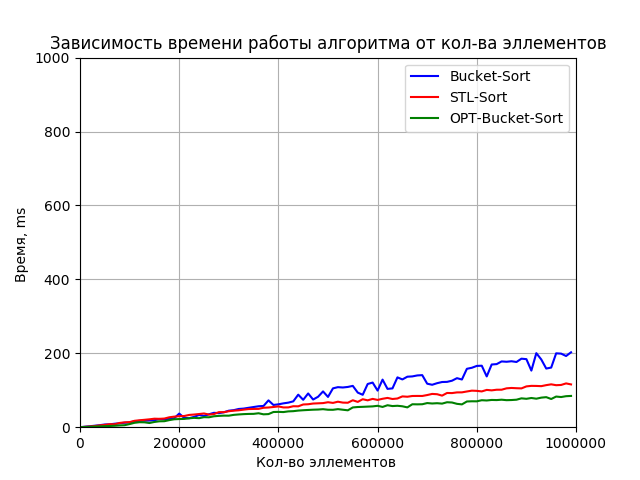
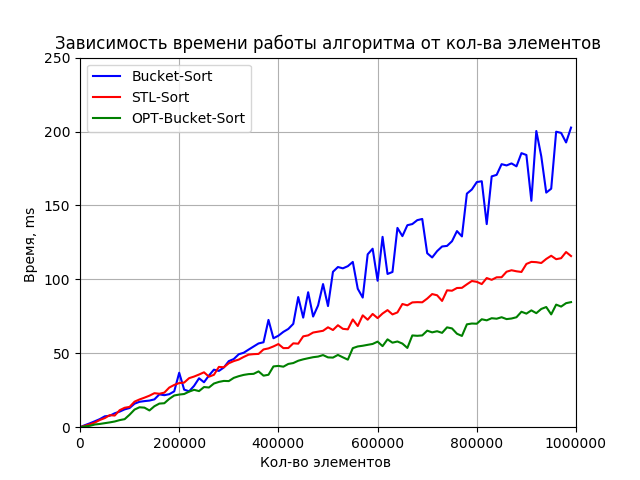
rafactor graphics

diff --git a/scripts/graphics-sript.py b/scripts/graphics-sript.py
@@ -22,6 +22,7 @@ Y_B  = []
 Y_Q  = []
 Y_OB = []
 
+
 f_b = open('log_bucket_sort.txt', 'r')
 for line in f_b:
 	Y_B.append(float(line))
@@ -49,15 +50,15 @@ line_b, line_q, line_ob = plt.plot(X, Y_B, 'b-', X, Y_Q, 'r-', X, Y_OB, 'g-'  )
 
 # Задаем интервалы значений по осям X и Y
 
-plt.axis([0.0, 1000000.0, 0.0, 1000.0])
+plt.axis([0.0, 1000000.0, 0.0, 250.0])
 
 # Задаем заголовок диаграммы
 
-plt.title(u'Зависимость времени работы алгоритма от кол-ва эллементов')
+plt.title(u'Зависимость времени работы алгоритма от кол-ва элементов')
 
 # Задаем подписи к осям X и Y
 
-plt.xlabel(u'Кол-во эллементов ')
+plt.xlabel(u'Кол-во элементов ')
 plt.ylabel(u'Время, ms ')
 
 # Задаем исходные данные для легенды и ее размещение
